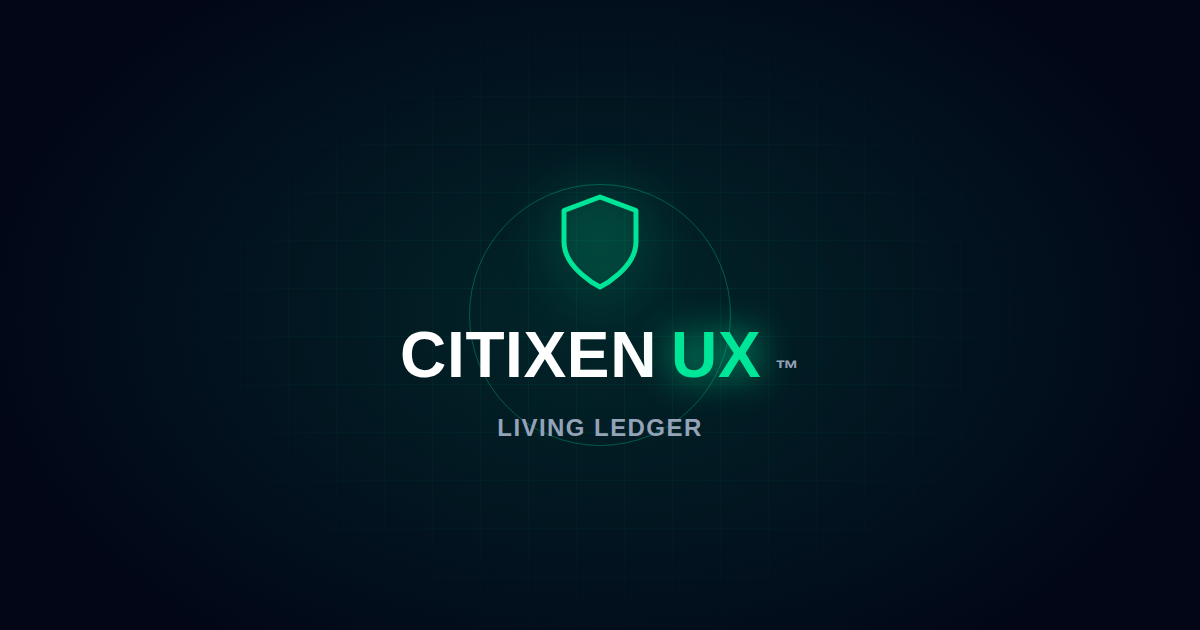
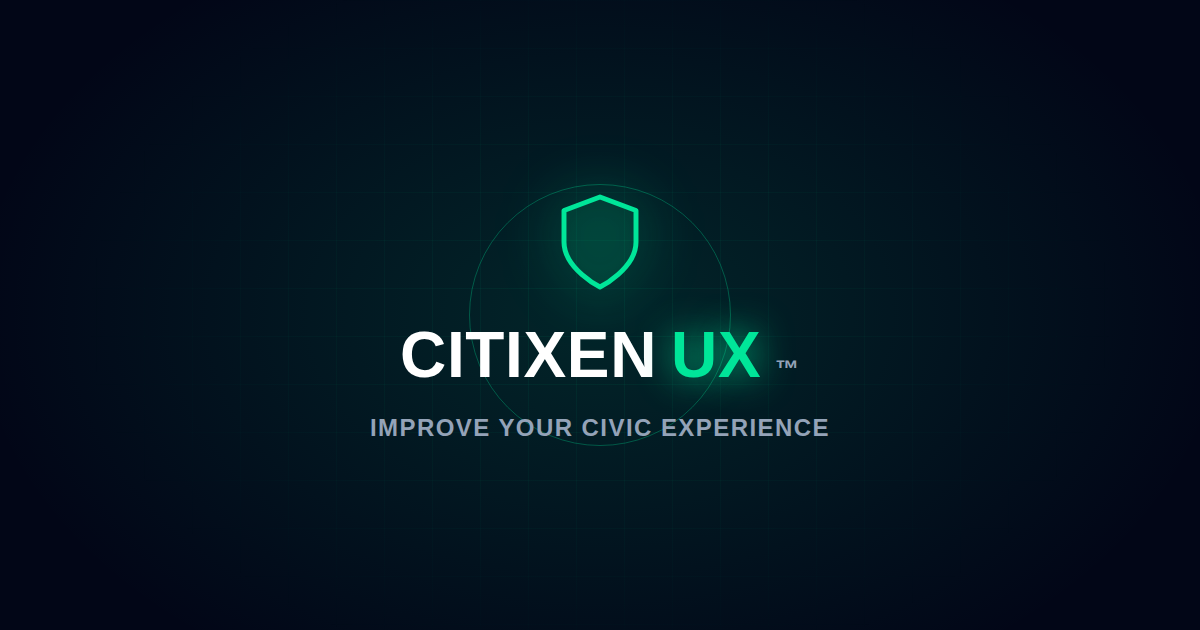
fix: patch 4.10 - update imessage og preview tagline to Improve Your Civic Experience
Claude-Session: https://claude.ai/code/session_01Pr7YiDeuau7Lt6RzqjTVyU

Changed region(s): [[0.3083, 0.6635, 0.7092, 0.6937]]

diff --git a/app.html b/app.html
@@ -30,7 +30,7 @@
 })();
 </script>
 <title>CITIXEN UX™</title>
-<meta name="description" content="Civic Memory™ Infrastructure Ledger">
+<meta name="description" content="Improve Your Civic Experience">
 <!-- Open Graph / Twitter preview card — fixes the gray-box fallback iMessage/
      SMS showed for citixenux.com/app. og-preview.png is a real pre-rendered
      1200x630 PNG (glowing emerald logo on Obsidian Glass #020617), not a
@@ -43,16 +43,16 @@
 <meta property="og:type" content="website">
 <meta property="og:url" content="https://citixenux.com/app">
 <meta property="og:title" content="CITIXEN UX™">
-<meta property="og:description" content="Civic Memory™ Infrastructure Ledger">
+<meta property="og:description" content="Improve Your Civic Experience">
 <meta property="og:image" content="https://citixenux.com/og-preview.png">
 <meta property="og:image:width" content="1200">
 <meta property="og:image:height" content="630">
-<meta property="og:image:alt" content="CITIXEN UX — Living Ledger">
+<meta property="og:image:alt" content="CITIXEN UX — Improve Your Civic Experience">
 <!-- "summary" (not summary_large_image) forces the compact right-side-icon
      card layout this round asked for, rather than the large hero-image card. -->
 <meta name="twitter:card" content="summary">
 <meta name="twitter:title" content="CITIXEN UX™">
-<meta name="twitter:description" content="Civic Memory™ Infrastructure Ledger">
+<meta name="twitter:description" content="Improve Your Civic Experience">
 <meta name="twitter:image" content="https://citixenux.com/og-preview.png">
 <meta name="theme-color" content="#00E699">
 <meta name="referrer" content="no-referrer">
